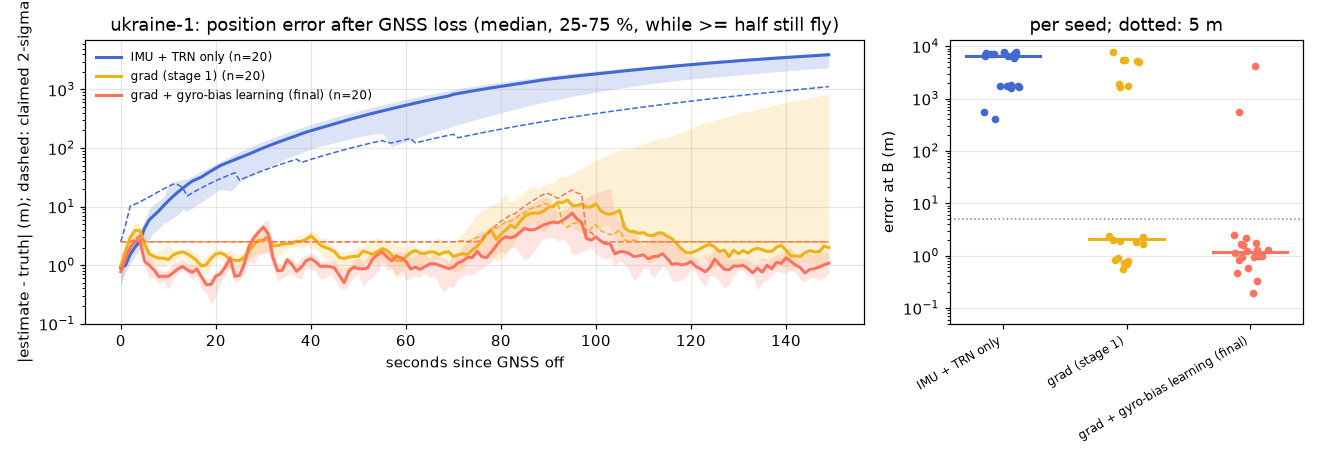
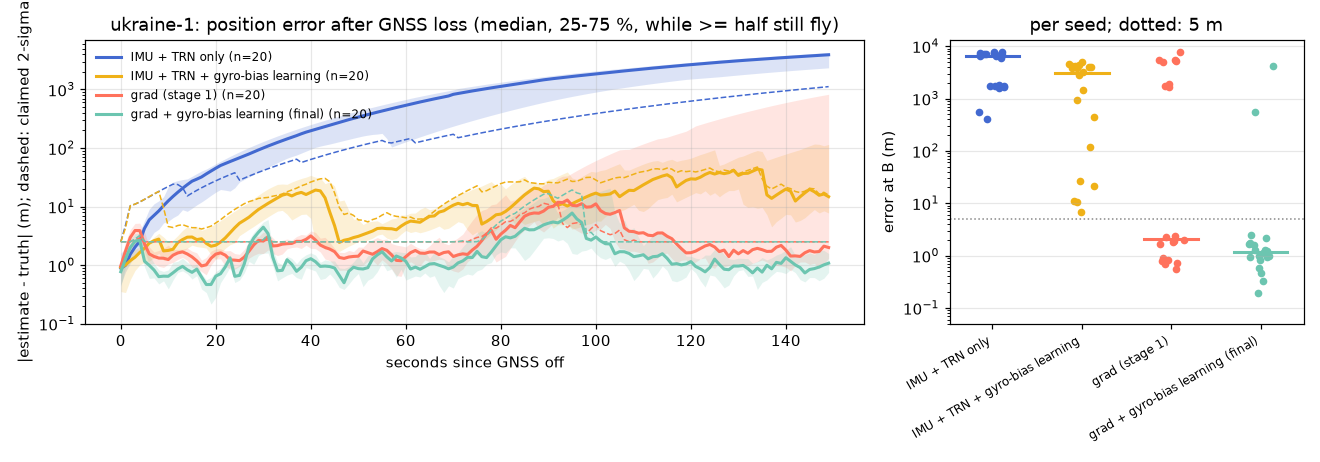
Plots with the baseline-with-fix row; re-localization guard result (no effect)

diff --git a/docs/NIGHT_NAV.md b/docs/NIGHT_NAV.md
@@ -194,6 +194,8 @@ explicitly; daytime flights are unchanged (0).
 Before the forest a forced re-localization (5 consecutive NIS rejections = only 1 s at 5 Hz) accepted a match
 11 m off; in the forest the error then grew 6 -> 58 m in 16 s and the first fix after the forest was a wrong
 match inside a too-small search window (claimed 2-sigma 2.9 m at 65 m true error). The drone also descended to
-26 m AGL: terrain following uses the (wrong) estimated position. Ideas: forced re-localization only after
+26 m AGL: terrain following uses the (wrong) estimated position. Tried: forced re-localization from thermal only
+after NIS rejections spanning >= 3 s with consistent innovations (`thermal.reloc_min_span_s`, opt-in): seeds 5 and
+9 still run away (seed 9 unchanged), so it stays off. Further ideas: forced re-localization only after
 rejections spread over several seconds and mutually consistent; search window at least the distance flown blind
 x the velocity uncertainty; route choice around featureless stretches (night-demo's ROADS route avoids this forest).

diff --git a/REPORT_night-nav.md b/REPORT_night-nav.md
@@ -64,7 +64,8 @@ IMU + TRN 10/20, 0/20, 0/20. Open-loop bench: grad 66-79 % fix rate, median 0.5-
   (seeds 5 and 9; seed 9 had arrived without the fix, so the gain is not uniform). Seed 5: a wrong forced
   re-localization before the forest, then a wrong match after it; it also descends to 26 m AGL because terrain
   following uses the wrong position - a real safety issue for terrain-following at night.
-- **Tried and rejected**: EKF accel-bias random walk x4 (wobble, flights stalled at waypoints), thermal fix
+- **Tried and rejected**: re-localization guard (`thermal.reloc_min_span_s` 3 s; ukraine seeds 5 and 9 still run
+  away), EKF accel-bias random walk x4 (wobble, flights stalled at waypoints), thermal fix
   covariance x4 (neutral), `yaw_feedback` (implemented, not evaluated; the compass bias is constant ~0.8 deg, there
   is no yaw drift).
 - **road / junction alone** are weak in these worlds: short campus / village roads, trees over roads, plazas and
